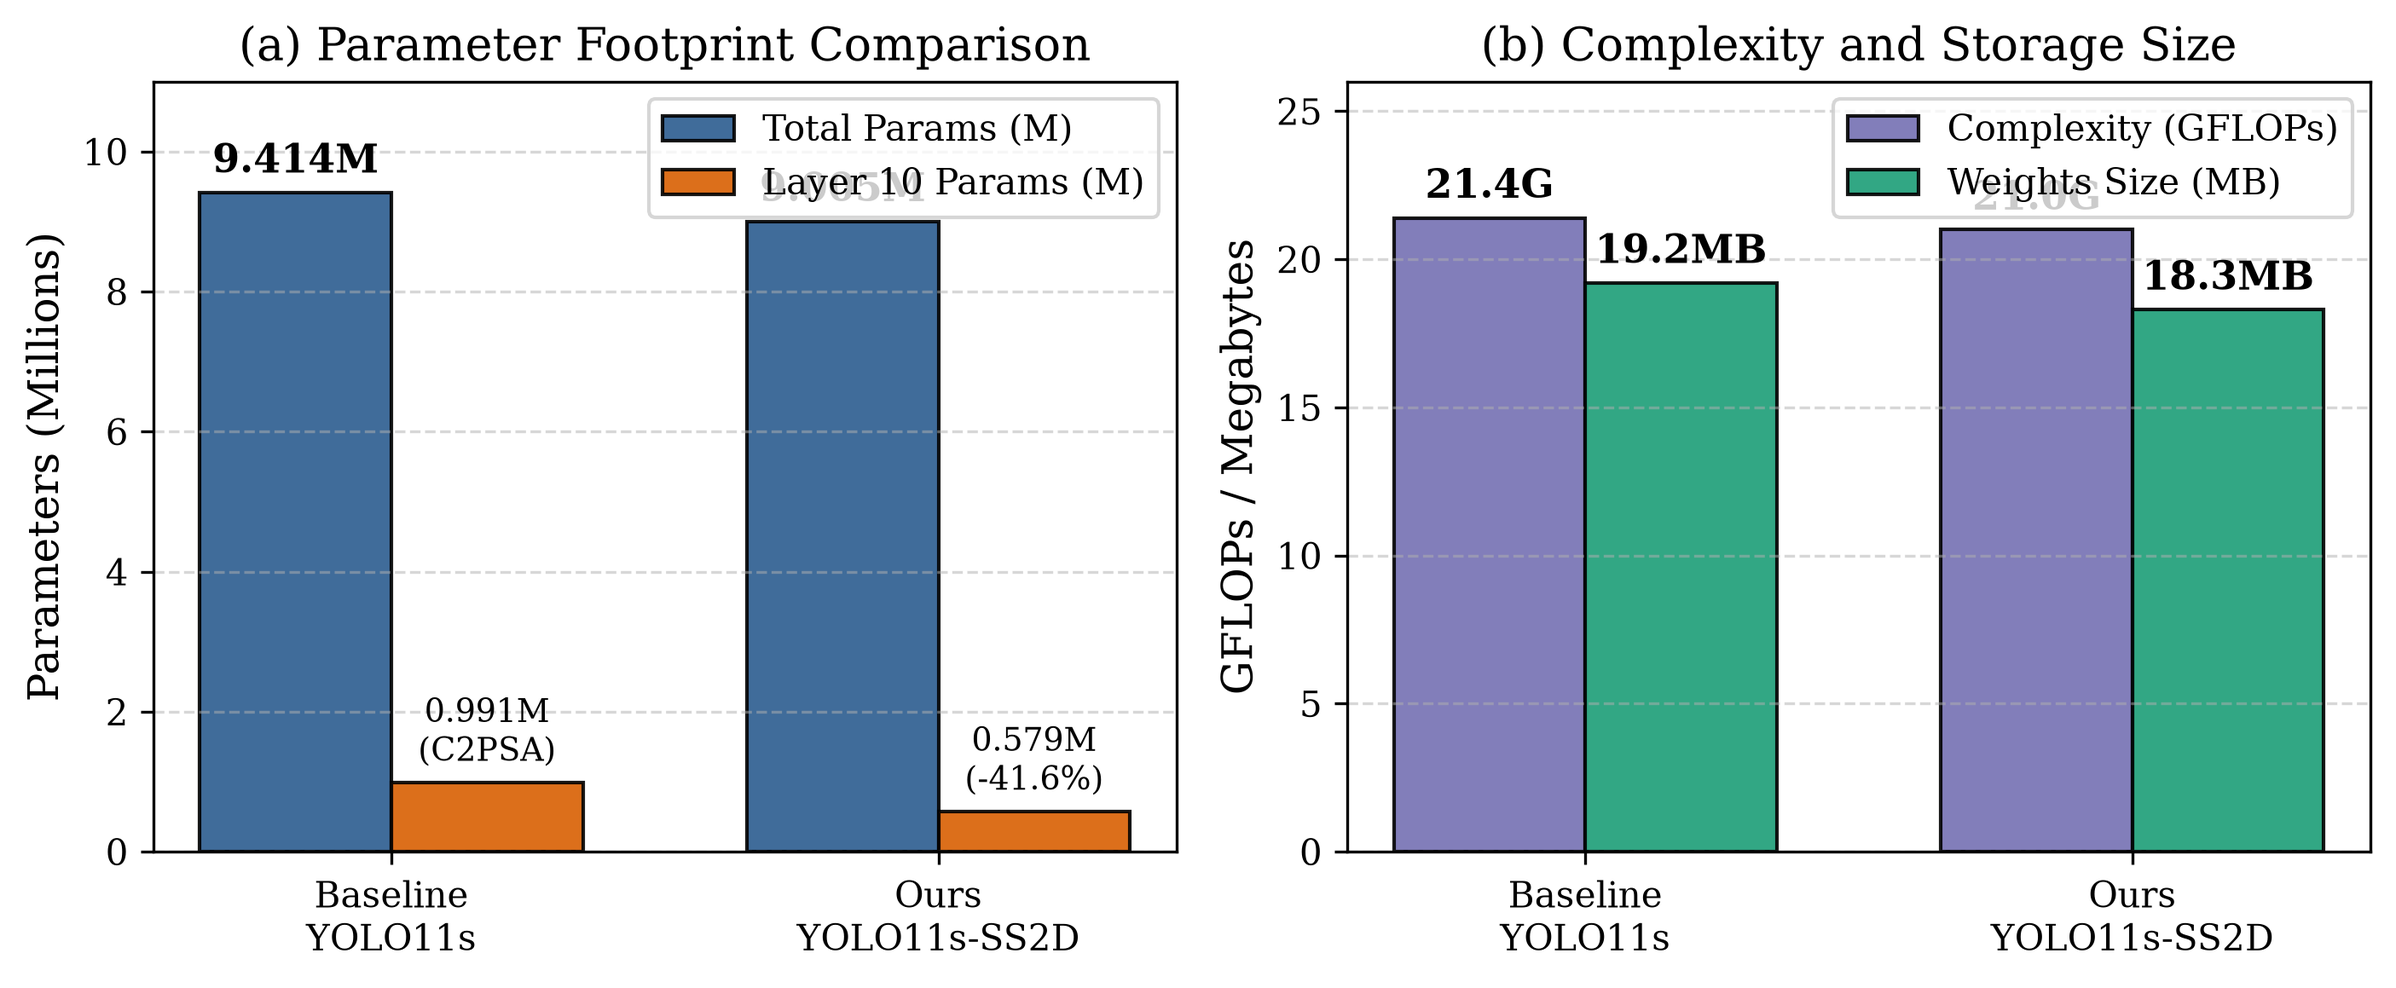
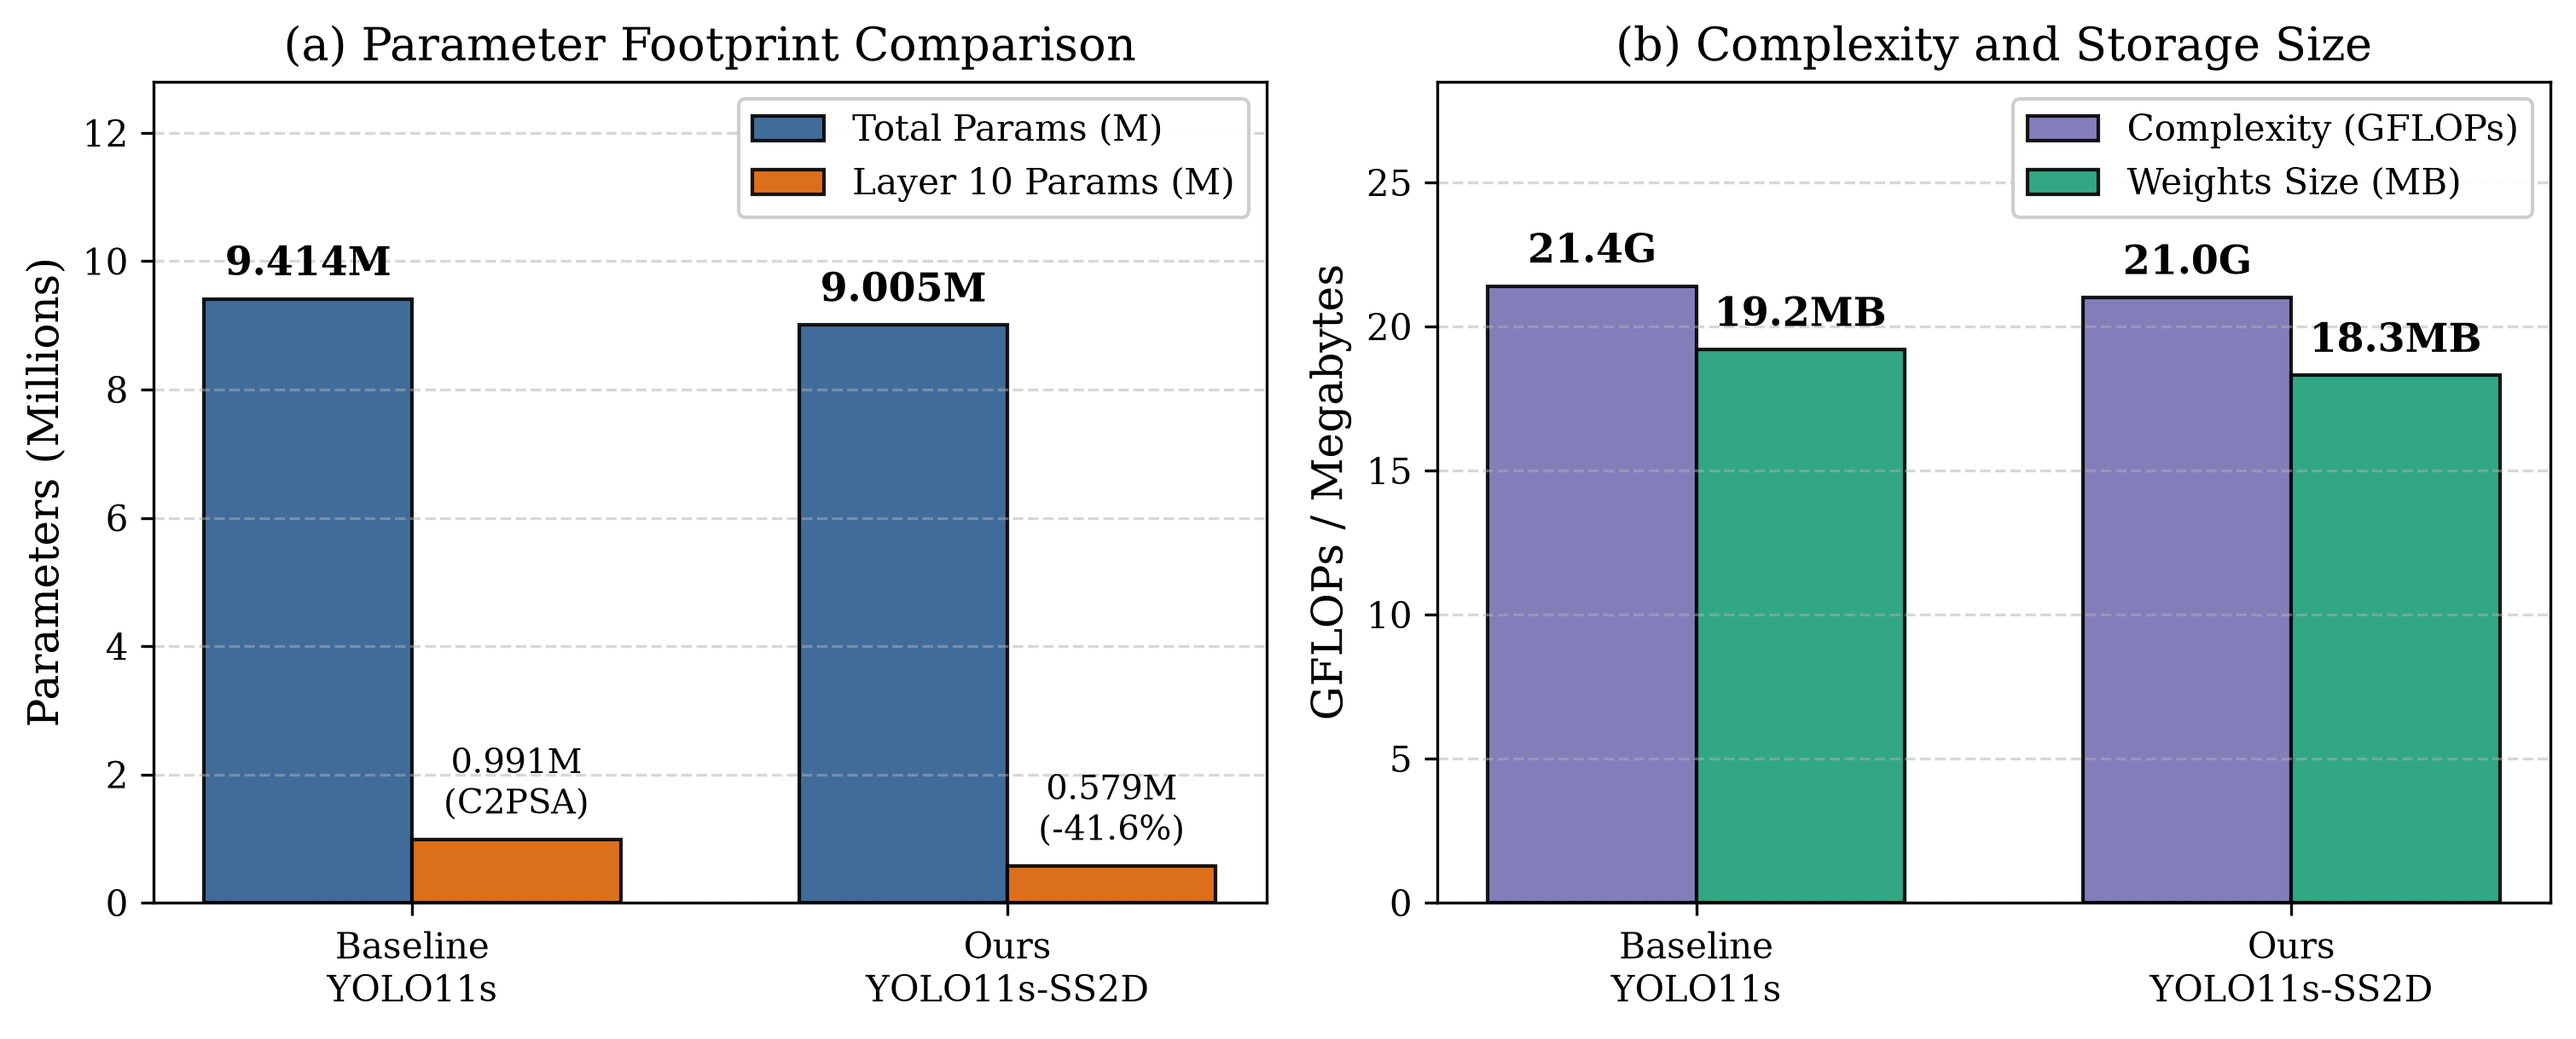
fix(figures): adjust headroom and offsets in architectural comparison figure to prevent label occlusion

diff --git a/scripts/generate_paper_charts.py b/scripts/generate_paper_charts.py
@@ -23,7 +23,7 @@ plt.rcParams.update({
 })
 
 def generate_architectural_comparison_chart():
-    fig, (ax1, ax2) = plt.subplots(1, 2, figsize=(9.5, 4.0))
+    fig, (ax1, ax2) = plt.subplots(1, 2, figsize=(10.2, 4.2))
 
     # Subplot 1: Total Parameters & Layer 10 Parameters
     models = ['Baseline\nYOLO11s', 'Ours\nYOLO11s-SS2D']
@@ -40,8 +40,8 @@ def generate_architectural_comparison_chart():
     ax1.set_title('(a) Parameter Footprint Comparison')
     ax1.set_xticks(x)
     ax1.set_xticklabels(models)
-    ax1.set_ylim(0, 11)
-    ax1.legend(loc='upper right')
+    ax1.set_ylim(0, 12.8)
+    ax1.legend(loc='upper right', framealpha=0.95)
     ax1.grid(axis='y', linestyle='--', alpha=0.5)
 
     # Add labels on top of bars
@@ -49,16 +49,16 @@ def generate_architectural_comparison_chart():
         height = rect.get_height()
         ax1.annotate(f'{height:.3f}M',
                     xy=(rect.get_x() + rect.get_width() / 2, height),
-                    xytext=(0, 3), textcoords="offset points",
-                    ha='center', va='bottom', fontweight='bold')
+                    xytext=(0, 4), textcoords="offset points",
+                    ha='center', va='bottom', fontweight='bold', fontsize=11)
 
     for rect in rects2:
         height = rect.get_height()
         pct_diff = "-41.6%" if height < 0.8 else "C2PSA"
         ax1.annotate(f'{height:.3f}M\n({pct_diff})',
                     xy=(rect.get_x() + rect.get_width() / 2, height),
-                    xytext=(0, 3), textcoords="offset points",
-                    ha='center', va='bottom', fontsize=9)
+                    xytext=(0, 4), textcoords="offset points",
+                    ha='center', va='bottom', fontsize=9.5)
 
     # Subplot 2: Computational Complexity (GFLOPs) & Checkpoint Size (MB)
     gflops = [21.4, 21.0]
@@ -71,23 +71,23 @@ def generate_architectural_comparison_chart():
     ax2.set_title('(b) Complexity and Storage Size')
     ax2.set_xticks(x)
     ax2.set_xticklabels(models)
-    ax2.set_ylim(0, 26)
-    ax2.legend(loc='upper right')
+    ax2.set_ylim(0, 28.5)
+    ax2.legend(loc='upper right', framealpha=0.95)
     ax2.grid(axis='y', linestyle='--', alpha=0.5)
 
     for rect in rects3:
         height = rect.get_height()
         ax2.annotate(f'{height:.1f}G',
                     xy=(rect.get_x() + rect.get_width() / 2, height),
-                    xytext=(0, 3), textcoords="offset points",
-                    ha='center', va='bottom', fontweight='bold')
+                    xytext=(0, 4), textcoords="offset points",
+                    ha='center', va='bottom', fontweight='bold', fontsize=11)
 
     for rect in rects4:
         height = rect.get_height()
         ax2.annotate(f'{height:.1f}MB',
                     xy=(rect.get_x() + rect.get_width() / 2, height),
-                    xytext=(0, 3), textcoords="offset points",
-                    ha='center', va='bottom', fontweight='bold')
+                    xytext=(0, 4), textcoords="offset points",
+                    ha='center', va='bottom', fontweight='bold', fontsize=11)
 
     plt.tight_layout()
     output_path = "paper/figures/fig_architectural_comparison.pdf"
